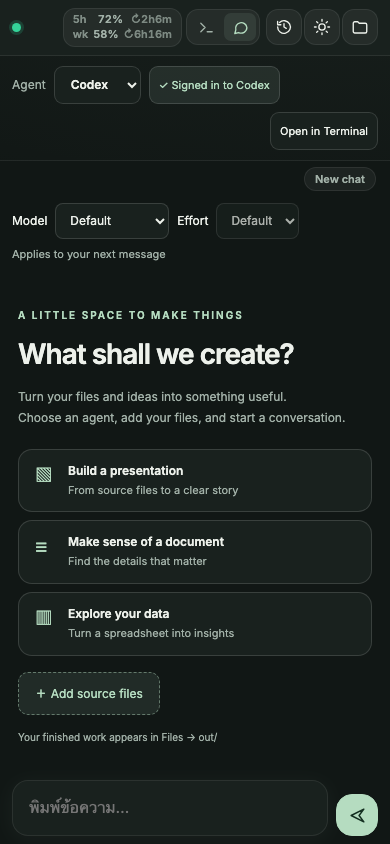
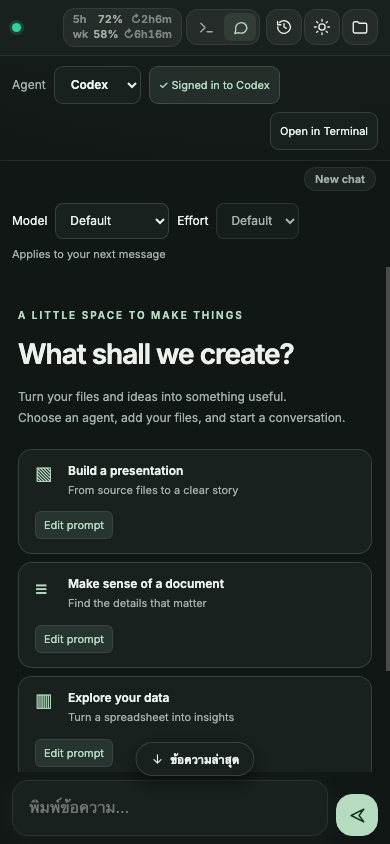
feat(ai-deck): save editable starter prompts

diff --git a/ai-deck/ui/desk.css b/ai-deck/ui/desk.css
@@ -43,10 +43,25 @@
 .chat-empty h1 { font-size: clamp(28px, 4vw, 42px); font-weight: 600; letter-spacing: -1.8px; color: var(--fg); margin: 16px 0; line-height: 1.15; }
 .chat-empty p { font-size: 14px; line-height: 1.8; margin: 0; }
 .starter-grid { display: grid; grid-template-columns: repeat(3, 1fr); gap: 12px; margin: 30px 0 22px; }
-.starter-grid button { text-align: left; padding: 20px 16px; border-radius: 14px; border: 1px solid var(--line-strong);
+.starter-card { display: flex; flex-direction: column; min-width: 0; overflow: hidden; border: 1px solid var(--line-strong); border-radius: 14px; background: var(--panel); }
+.starter-grid .starter-card .starter-use { flex: 1; width: 100%; border: 0; border-radius: 0; }
+.starter-edit { align-self: flex-start; margin: 0 16px 14px; padding: 6px 8px; border: 1px solid var(--line); border-radius: 6px; background: var(--accent-soft); color: var(--accent); font: 11px var(--ui); cursor: pointer; }
+.starter-edit:hover { border-color: var(--accent-line); }
+.prompt-editor { margin: auto; width: min(580px, calc(100vw - 32px)); max-height: calc(100dvh - 32px); box-sizing: border-box; padding: 24px; border: 1px solid var(--line-strong); border-radius: 16px; color: var(--fg); background: var(--panel); }
+.prompt-editor::backdrop { background: rgba(0,0,0,.5); }
+.prompt-editor h2 { font: 600 18px var(--ui); margin: 0 0 10px; }
+.prompt-editor p { font: 12px/1.6 var(--ui); color: var(--muted); }
+.prompt-editor label { display: block; font: 600 12px var(--ui); margin-bottom: 8px; }
+.prompt-editor textarea { width: 100%; box-sizing: border-box; min-height: 180px; resize: vertical; padding: 12px; border: 1px solid var(--line-strong); border-radius: 8px; color: var(--fg); background: var(--bg); font: 14px/1.6 var(--ui); }
+.prompt-editor-actions { display: flex; flex-wrap: wrap; justify-content: flex-end; gap: 8px; margin-top: 16px; }
+.prompt-editor-actions button { padding: 9px 12px; border: 1px solid var(--line-strong); border-radius: 8px; background: var(--bg); color: var(--fg); font: 12px var(--ui); cursor: pointer; }
+.prompt-editor-actions [data-prompt-reset] { margin-right: auto; }
+.prompt-editor-actions .prompt-save { background: var(--accent); color: var(--accent-ink); }
+.prompt-editor [role="alert"] { color: var(--bad); }
+.starter-grid .starter-use { text-align: left; padding: 20px 16px; border-radius: 14px; border: 1px solid var(--line-strong);
   background: var(--panel); color: var(--fg); cursor: pointer; transition: border-color var(--t), transform var(--t); font-family: var(--ui); }
-.starter-grid button:hover { transform: translateY(-3px); border-color: var(--accent-line); }
-.starter-grid button > span { color: var(--accent); font-size: 24px; display: block; margin-bottom: 22px; }
+.starter-grid .starter-use:hover { transform: translateY(-3px); border-color: var(--accent-line); }
+.starter-grid .starter-use > span { color: var(--accent); font-size: 24px; display: block; margin-bottom: 22px; }
 .starter-grid strong { font-size: 12px; display: block; line-height: 1.5; }
 .starter-grid small { color: var(--muted); font-size: 11px; display: block; margin-top: 6px; line-height: 1.6; }
 .welcome-upload { font: 12px var(--ui); border: 1px dashed var(--accent-line); background: var(--accent-soft);
@@ -87,13 +102,13 @@ button:disabled { cursor: wait; opacity: .55; }
   .chat-empty h1 { letter-spacing: -1px; }
   .chat-empty p { font-size: 12px; }
   .starter-grid { grid-template-columns: 1fr; gap: 8px; margin: 20px 0 16px; }
-  .starter-grid button { position: relative; padding: 12px 12px 12px 49px; }
-  .starter-grid button > span { position: absolute; left: 16px; top: 13px; margin: 0; font-size: 20px; }
+  .starter-grid .starter-use { position: relative; padding: 12px 12px 12px 49px; }
+  .starter-grid .starter-use > span { position: absolute; left: 16px; top: 13px; margin: 0; font-size: 20px; }
   .starter-grid small { margin-top: 2px; }
   .chat-form { padding-inline: 12px; }
   .welcome-foot { font-size: 10px; }
 }
-@media (prefers-reduced-motion: reduce) { .starter-grid button:hover { transform: none; } }
+@media (prefers-reduced-motion: reduce) { .starter-grid .starter-use:hover { transform: none; } }
 @media (max-width: 430px) {
   .brand .name { display: none; }
   .top-actions { min-width: 0; flex-wrap: wrap; justify-content: flex-end; }

diff --git a/ai-deck/ui/starters.js b/ai-deck/ui/starters.js
@@ -1,0 +1,104 @@
+// Editable starter templates, shared by providers within this browser.
+(function () {
+  'use strict';
+  const KEY = 'ai-deck.starter-prompts.v1';
+  const IDS = ['presentation', 'document', 'data'];
+  const MAX_LENGTH = 16000;
+
+  function savedPrompts() {
+    try {
+      const value = JSON.parse(localStorage.getItem(KEY));
+      return value && typeof value === 'object' && !Array.isArray(value) ? value : {};
+    } catch (_) { return {}; }
+  }
+
+  function mount(box, usePrompt) {
+    const buttons = Array.from(box.querySelectorAll('[data-prompt]'));
+    const saved = savedPrompts();
+    buttons.forEach((button, index) => {
+      const id = IDS[index];
+      if (!id) return;
+      const original = button.dataset.prompt;
+      if (typeof saved[id] === 'string' && saved[id].trim() && saved[id].length <= MAX_LENGTH) {
+        button.dataset.prompt = saved[id];
+      }
+      button.classList.add('starter-use');
+      button.dataset.starterId = id;
+      const card = document.createElement('div');
+      card.className = 'starter-card';
+      button.replaceWith(card);
+      card.append(button);
+      const edit = document.createElement('button');
+      edit.type = 'button';
+      edit.className = 'starter-edit';
+      edit.dataset.editPrompt = id;
+      edit.textContent = 'Edit prompt';
+      const title = button.querySelector('strong').textContent;
+      edit.setAttribute('aria-label', 'Edit prompt: ' + title);
+      card.append(edit);
+      button.addEventListener('click', () => usePrompt(button.dataset.prompt));
+      edit.addEventListener('click', () => openEditor({button, edit, id, title, original}));
+    });
+  }
+
+  function openEditor({button, edit, id, title, original}) {
+    if (document.getElementById('prompt-editor')) return;
+    const dialog = document.createElement('dialog');
+    dialog.id = 'prompt-editor';
+    dialog.className = 'prompt-editor';
+    dialog.setAttribute('aria-labelledby', 'prompt-editor-title');
+    dialog.setAttribute('aria-describedby', 'prompt-editor-help');
+    dialog.innerHTML = '<form>'
+      + '<h2 id="prompt-editor-title"></h2>'
+      + '<p id="prompt-editor-help">Save a prompt for this card in this browser. Works with Claude and Codex.</p>'
+      + '<label for="prompt-editor-text">Prompt</label>'
+      + '<textarea id="prompt-editor-text" rows="8" maxlength="16000" required autofocus></textarea>'
+      + '<p id="prompt-editor-error" role="alert" hidden></p>'
+      + '<div class="prompt-editor-actions"><button type="button" data-prompt-reset>Restore default</button>'
+      + '<button type="button" data-prompt-cancel>Cancel</button>'
+      + '<button type="submit" class="prompt-save">Save prompt</button></div></form>';
+    dialog.querySelector('h2').textContent = 'Edit prompt · ' + title;
+    const text = dialog.querySelector('textarea');
+    text.value = button.dataset.prompt;
+    const error = dialog.querySelector('[role="alert"]');
+    const close = () => {
+      dialog.close();
+      dialog.remove();
+      if (edit.isConnected) edit.focus();
+    };
+    dialog.addEventListener('cancel', event => {
+      event.preventDefault();
+      close();
+    });
+    dialog.querySelector('[data-prompt-cancel]').addEventListener('click', close);
+    dialog.querySelector('[data-prompt-reset]').addEventListener('click', () => {
+      text.value = original;
+      error.hidden = true;
+      text.focus();
+    });
+    dialog.querySelector('form').addEventListener('submit', event => {
+      event.preventDefault();
+      if (!text.value.trim() || text.value.length > MAX_LENGTH) {
+        error.textContent = 'Enter a prompt between 1 and 16,000 characters.';
+        error.hidden = false;
+        text.focus();
+        return;
+      }
+      const saved = savedPrompts();
+      if (text.value === original) delete saved[id];
+      else saved[id] = text.value;
+      try { localStorage.setItem(KEY, JSON.stringify(saved)); }
+      catch (_) {
+        error.textContent = 'Could not save in this browser. Your edits are still here; copy them before closing.';
+        error.hidden = false;
+        return;
+      }
+      button.dataset.prompt = text.value;
+      close();
+    });
+    document.body.append(dialog);
+    dialog.showModal();
+  }
+
+  window.DeskStarters = {mount};
+})();

diff --git a/ai-deck/tests/starter_prompts_harness.html b/ai-deck/tests/starter_prompts_harness.html
@@ -1,0 +1,62 @@
+<!doctype html><meta charset="utf-8"><title>Starter prompt checks</title>
+<pre id="result">pending</pre>
+<script>
+const key = 'ai-deck.starter-prompts.v1';
+localStorage.removeItem(key);
+const failures = [];
+const check = (ok, message) => { if (!ok) failures.push(message); };
+const pause = () => new Promise(resolve => setTimeout(resolve, 60));
+(async () => {
+ try {
+  const frame = document.createElement('iframe');
+  frame.style = 'width:390px;height:844px';
+  const load = provider => new Promise(resolve => {
+   frame.onload = () => setTimeout(resolve, 100);
+   frame.src = '../ui/?demo=1&chat=1&welcome=1&provider=' + provider;
+   if (!frame.isConnected) document.body.append(frame);
+  });
+  await load('claude');
+  let doc = frame.contentDocument;
+  const open = () => { doc.querySelector('[data-edit-prompt="presentation"]').click(); return doc.querySelector('dialog'); };
+  const save = () => doc.querySelector('dialog form').requestSubmit();
+  const original = doc.querySelector('[data-prompt]').dataset.prompt;
+  const custom = 'My prompt <script>window.injected=true</' + 'script>\nภาษาไทย';
+  doc.getElementById('chat-input').value = 'Existing draft';
+  let dialog = open();
+  check(dialog.open, 'editor opens as modal');
+  const rect = dialog.getBoundingClientRect();
+  check(rect.left >= 0 && rect.right <= 390, 'editor fits phone');
+  check(Math.abs(rect.left - (390 - rect.width) / 2) < 2, 'editor is centered');
+  check(dialog.querySelector('textarea').value === original, 'editor contains default prompt');
+  dialog.querySelector('textarea').value = custom;
+  save(); await pause();
+  check(!doc.querySelector('dialog'), 'save closes editor');
+  check(doc.getElementById('chat-input').value === 'Existing draft', 'editing preserves composer');
+  check(JSON.parse(localStorage.getItem(key)).presentation === custom, 'prompt persists');
+  check(!frame.contentWindow.injected, 'prompt remains literal text');
+  doc.querySelector('[data-prompt]').click();
+  check(doc.getElementById('chat-input').value === custom, 'card uses saved prompt');
+  await load('codex'); doc = frame.contentDocument;
+  check(doc.querySelector('[data-prompt]').dataset.prompt === custom, 'reload and provider switch preserve prompt');
+  dialog = open(); dialog.querySelector('textarea').value = 'Discard';
+  dialog.querySelector('[data-prompt-cancel]').click(); await pause();
+  check(doc.querySelector('[data-prompt]').dataset.prompt === custom, 'cancel preserves saved prompt');
+  dialog = open(); dialog.querySelector('textarea').value = '   '; save();
+  check(dialog.open && !dialog.querySelector('[role="alert"]').hidden, 'whitespace rejected');
+  const originalSet = frame.contentWindow.Storage.prototype.setItem;
+  frame.contentWindow.Storage.prototype.setItem = () => { throw new Error('quota'); };
+  dialog.querySelector('textarea').value = 'Unsaved'; save();
+  check(dialog.open && dialog.querySelector('[role="alert"]').textContent.includes('Could not save'), 'storage failure preserves edits');
+  frame.contentWindow.Storage.prototype.setItem = originalSet;
+  dialog.querySelector('[data-prompt-reset]').click();
+  check(dialog.querySelector('textarea').value === original, 'reset restores default in editor');
+  save(); await pause();
+  check(doc.querySelector('[data-prompt]').dataset.prompt === original, 'saved reset applies');
+  check(!JSON.parse(localStorage.getItem(key)).presentation, 'reset removes override');
+  check(doc.activeElement.dataset.editPrompt === 'presentation', 'focus returns to edit button');
+  check(doc.querySelectorAll('[data-edit-prompt]').length === 3, 'all cards editable');
+ } catch (error) { failures.push(String(error)); }
+ localStorage.removeItem(key);
+ document.getElementById('result').textContent = JSON.stringify({failures});
+})();
+</script>

diff --git a/ai-deck/ui/app.js b/ai-deck/ui/app.js
@@ -1192,12 +1192,17 @@
       '<button type="button" data-prompt="ช่วยวิเคราะห์ spreadsheet ใน in/ และเสนอ insight โดยไม่แก้ไฟล์ต้นฉบับ">' +
       '<span aria-hidden="true">▥</span><strong>Explore your data</strong><small>Turn a spreadsheet into insights</small></button></div>' +
       '<button type="button" class="welcome-upload">＋ Add source files</button><span class="welcome-foot">Your finished work appears in Files → out/</span>';
-    box.querySelectorAll('[data-prompt]').forEach(button => button.addEventListener('click', () => {
-      chatInput.value = button.dataset.prompt;
+    const usePrompt = (prompt) => {
+      chatInput.value = prompt;
       sizeInput();
       saveDraft();
       chatInput.focus();
-    }));
+    };
+    if (window.DeskStarters) window.DeskStarters.mount(box, usePrompt);
+    else box.querySelectorAll('[data-prompt]').forEach(button => {
+      button.classList.add('starter-use');
+      button.addEventListener('click', () => usePrompt(button.dataset.prompt));
+    });
     box.querySelector('.welcome-upload').addEventListener('click', () => {
       document.getElementById('files-btn').click();
       document.querySelector('[data-dir="in"]').click();

diff --git a/ai-deck/tests/workspace_harness.html b/ai-deck/tests/workspace_harness.html
@@ -15,6 +15,7 @@ window.addEventListener('load', () => setTimeout(async () => {
       check(!!frame.contentWindow._chat, id + ': app initializes');
       check(doc.title === 'AI Deck', id + ': neutral brand');
       check(doc.querySelectorAll('[data-prompt]').length === 3, id + ': starters visible');
+      check(doc.querySelectorAll('[data-edit-prompt]').length === 3, id + ': each starter has an Edit prompt action');
       check(doc.documentElement.scrollWidth <= frame.clientWidth, id + ': no horizontal overflow');
       doc.querySelector('[data-prompt]').click();
       check(doc.getElementById('chat-input').value.includes('outline'), id + ': starter fills composer');

diff --git a/ai-deck/ui/index.html b/ai-deck/ui/index.html
@@ -216,6 +216,7 @@
   <script src="vendor/xterm-addon-fit.min.js"></script>
   <script src="vendor/xterm-addon-web-links.min.js"></script>
   <script src="stream.js"></script>
+  <script src="starters.js"></script>
   <script src="app.js"></script>
 </body>
 </html>

diff --git a/ai-deck/tests/test_workspace_ui.py b/ai-deck/tests/test_workspace_ui.py
@@ -12,7 +12,7 @@ import pytest
 from .test_stream_render import find_chrome
 
 
-@pytest.mark.parametrize('harness', ['workspace_harness.html', 'quota_harness.html'])
+@pytest.mark.parametrize('harness', ['workspace_harness.html', 'quota_harness.html', 'starter_prompts_harness.html'])
 def test_workspace_controls_and_mobile_layout(tmp_path, harness):
     chrome = find_chrome()
     if not chrome:

diff --git a/ai-deck/README.md b/ai-deck/README.md
@@ -13,6 +13,7 @@ and download the `.pptx` a few minutes later.
 1. Choose **Claude** or **Codex** in the Agent menu. Chat is the default view; **Open in Terminal** starts the selected CLI in your own terminal.
 2. For Codex, click **Sign in to Codex** once. The terminal runs `codex login --device-auth`; open the displayed verification page and enter its code using your ChatGPT account. Enable device-code login in your ChatGPT security settings if the CLI asks. After login, return to Chat with the speech-bubble tab. No API key is needed. Authentication persists in `~/.codex` inside the existing home volume.
 3. Click **Add source files**, upload inputs, then choose a starter or describe your task. Finished files appear under **Files → out/**. The history sheet lists the selected agent's conversations.
+   Each starter has **Edit prompt**: save its template for future visits in this browser, shared by Claude and Codex. **Cancel** discards edits; **Restore default** fills the original template (click **Save prompt** to apply). Selecting a card fills the composer for review; it does not send automatically. Templates are stored locally, not synced across browsers or devices.
 
 Switching agents preserves their separate conversations and composer drafts. It does not cancel a running turn. Claude streams text deltas; Codex displays completed message items as its CLI emits them, with live tool activity. Codex token counts are shown without fabricating dollar costs or Claude quota numbers.
 

diff --git a/ai-deck/.notes/00_INDEX.md b/ai-deck/.notes/00_INDEX.md
@@ -1,3 +1,10 @@
+## 2026-09-20 — Editable starter prompts
+
+- Added **Edit prompt** to all three welcome cards. Save per-card templates in `localStorage` (`ai-deck.starter-prompts.v1`), shared by Claude/Codex in this browser. No cross-device sync. Selecting a card fills the composer; never sends automatically.
+- Accessible modal supports Save, Cancel/Escape and Restore default (save to apply). Rejects blank/oversized prompts; storage failure keeps edits visible. Prompt text stays literal, existing composer draft is preserved while editing.
+- Verification: 144 stack tests passed; browser checks cover persistence across reload/provider change, cancel/reset, storage failure, literal text and mobile layout. JavaScript syntax/diff checks and nginx image build passed; desktop/mobile screenshots inspected. Independent review found no concrete correctness issues.
+- No deployment. Git delivery follows this entry; unrelated `secrets/vault.sops.yaml` remains excluded.
+
 ## Git delivery — 2026-09-20
 
 - Implementation commit `0f1d3c1` pushed to `origin/main`; remote HEAD verified with `git ls-remote`.

diff --git a/ai-deck/.notes/daily_log.md b/ai-deck/.notes/daily_log.md
@@ -1,3 +1,10 @@
+## 2026-09-20 — Editable starter prompts
+
+- Added **Edit prompt** to all three welcome cards. Save per-card templates in `localStorage` (`ai-deck.starter-prompts.v1`), shared by Claude/Codex in this browser. No cross-device sync. Selecting a card fills the composer; never sends automatically.
+- Accessible modal supports Save, Cancel/Escape and Restore default (save to apply). Rejects blank/oversized prompts; storage failure keeps edits visible. Prompt text stays literal, existing composer draft is preserved while editing.
+- Verification: 144 stack tests passed; browser checks cover persistence across reload/provider change, cancel/reset, storage failure, literal text and mobile layout. JavaScript syntax/diff checks and nginx image build passed; desktop/mobile screenshots inspected. Independent review found no concrete correctness issues.
+- No deployment. Git delivery follows this entry; unrelated `secrets/vault.sops.yaml` remains excluded.
+
 # claude-desk — Daily Log
 
 ## 2026-09-18 — skills ของ workstation ขึ้นเดสก์ (allowlist + bind mount)
